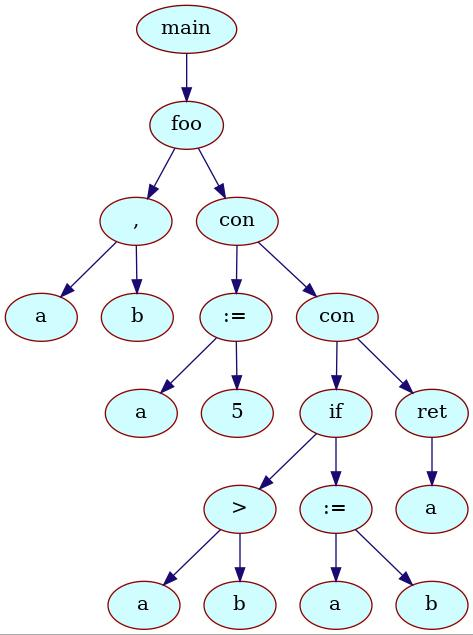
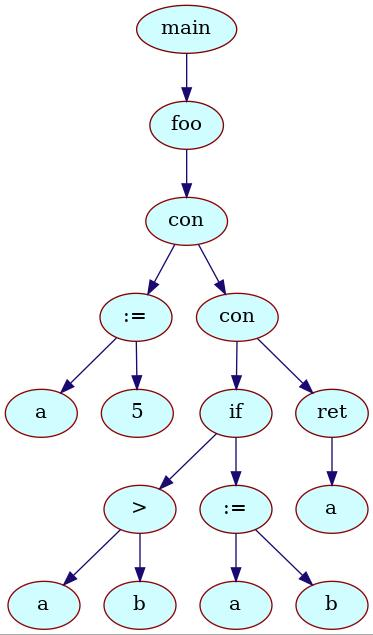
Added funcs without parameters

diff --git a/source/Frontend.c b/source/Frontend.c
@@ -565,6 +565,8 @@ node_t* getF(program_t* program)
     node_t* body  = NULL;
 
     char* name = getName(program);
+    CHECK(name != NULL, NULL);
+
     node_t* param = getParam(program);
     skipSeparator(&program->current_symbol);
     
@@ -582,6 +584,15 @@ node_t* getF(program_t* program)
     CHECK(*program->current_symbol == ']', NULL);
     ++program->current_symbol;
 
+    if(param == NULL)
+    {
+        func = createNodeKey(KEY_FUNC, createOp(OP_COMMA), body);
+        func->name = name;
+        treeNodeDtor(func->left);
+        func->left = NULL;
+
+        return func;
+    }
     func = createNodeKey(KEY_FUNC, param, body);
     func->name = name;
 
@@ -635,6 +646,11 @@ node_t* getParam(program_t* program)
     skipSeparator(&program->current_symbol);
     CHECK(*program->current_symbol == '(', NULL);
     ++program->current_symbol;
+    if(*program->current_symbol == ')')
+    {
+        ++program->current_symbol;
+        return NULL;
+    }
 
     node_t* val = getN(program);
     skipSeparator(&program->current_symbol);

diff --git a/source/tree.c b/source/tree.c
@@ -562,6 +562,10 @@ int fprintfConnection(node_t* node_prev, node_t* node, int operation, FILE* dot_
             fprintf(dot_out, "\t\t\"ret_%p\"->\"%c_%p\";\n", node_prev, *node->data.varValue, node);
             break;
 
+        case KEY_FUNC:
+            fprintf(dot_out, "\t\t\"%s_%p\"->\"%c_%p\";\n", node_prev->name, node_prev, *node->data.varValue, node);
+            break;
+
         default:
             break;
         }
